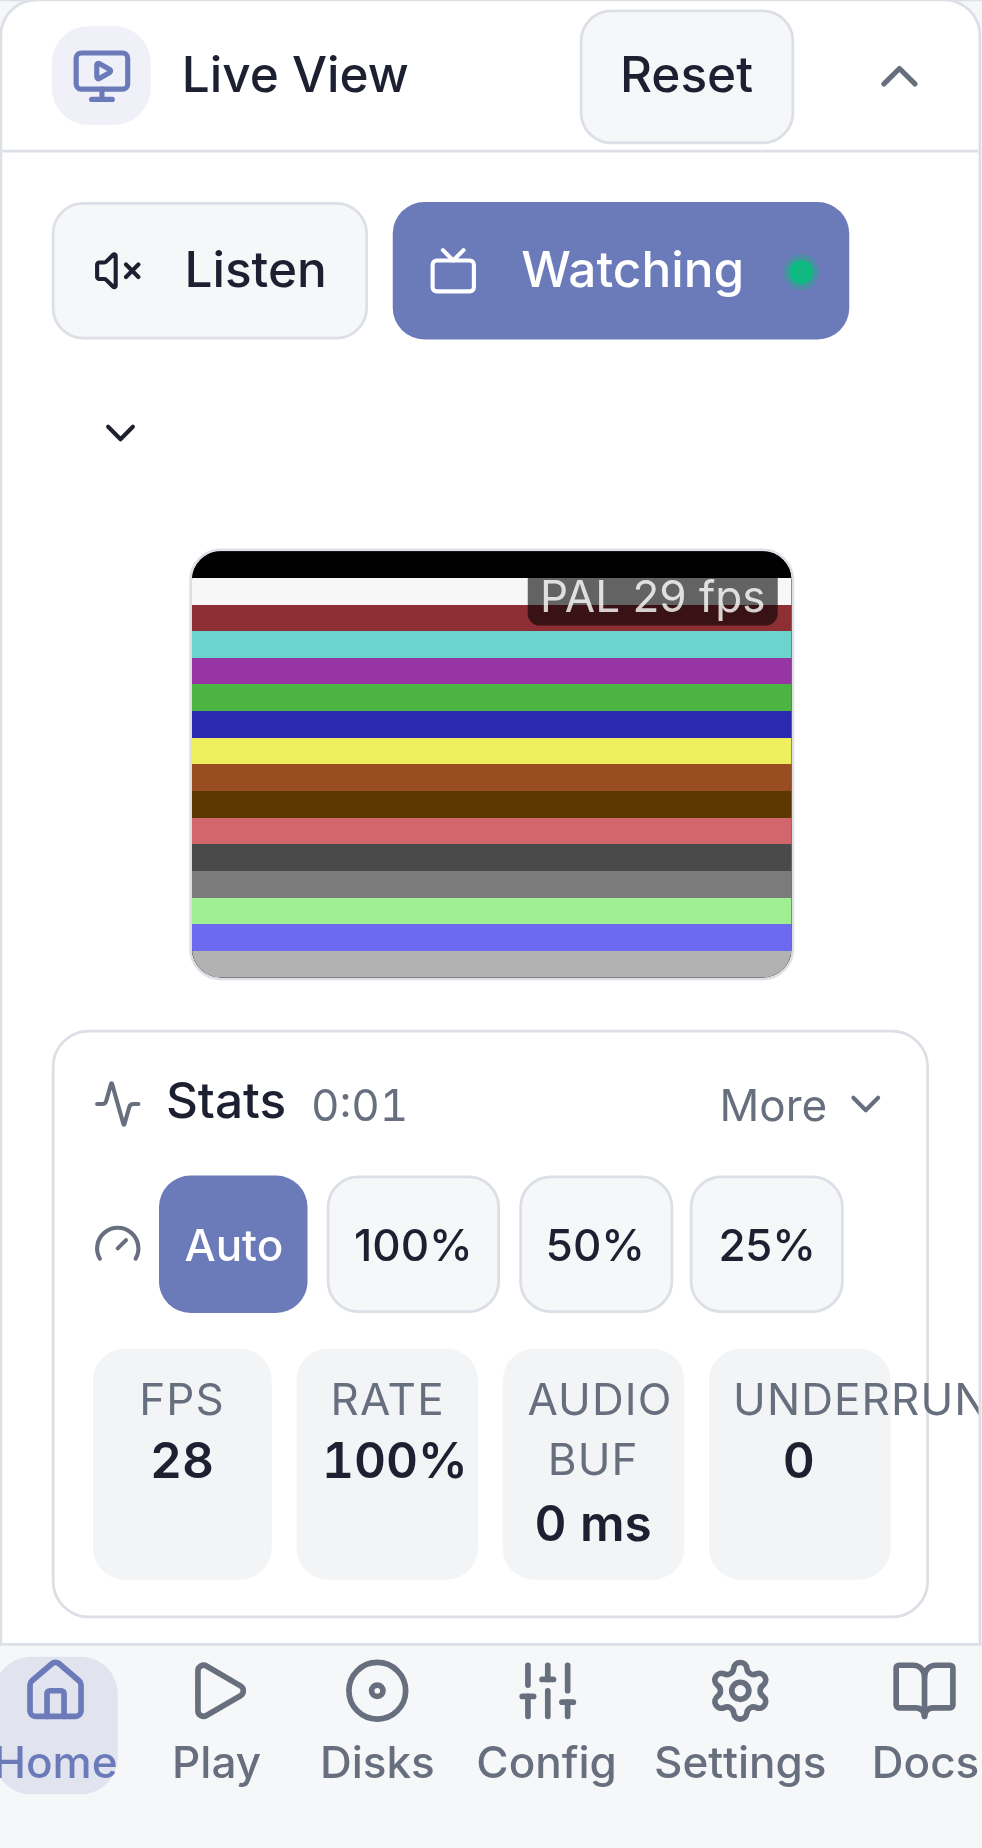
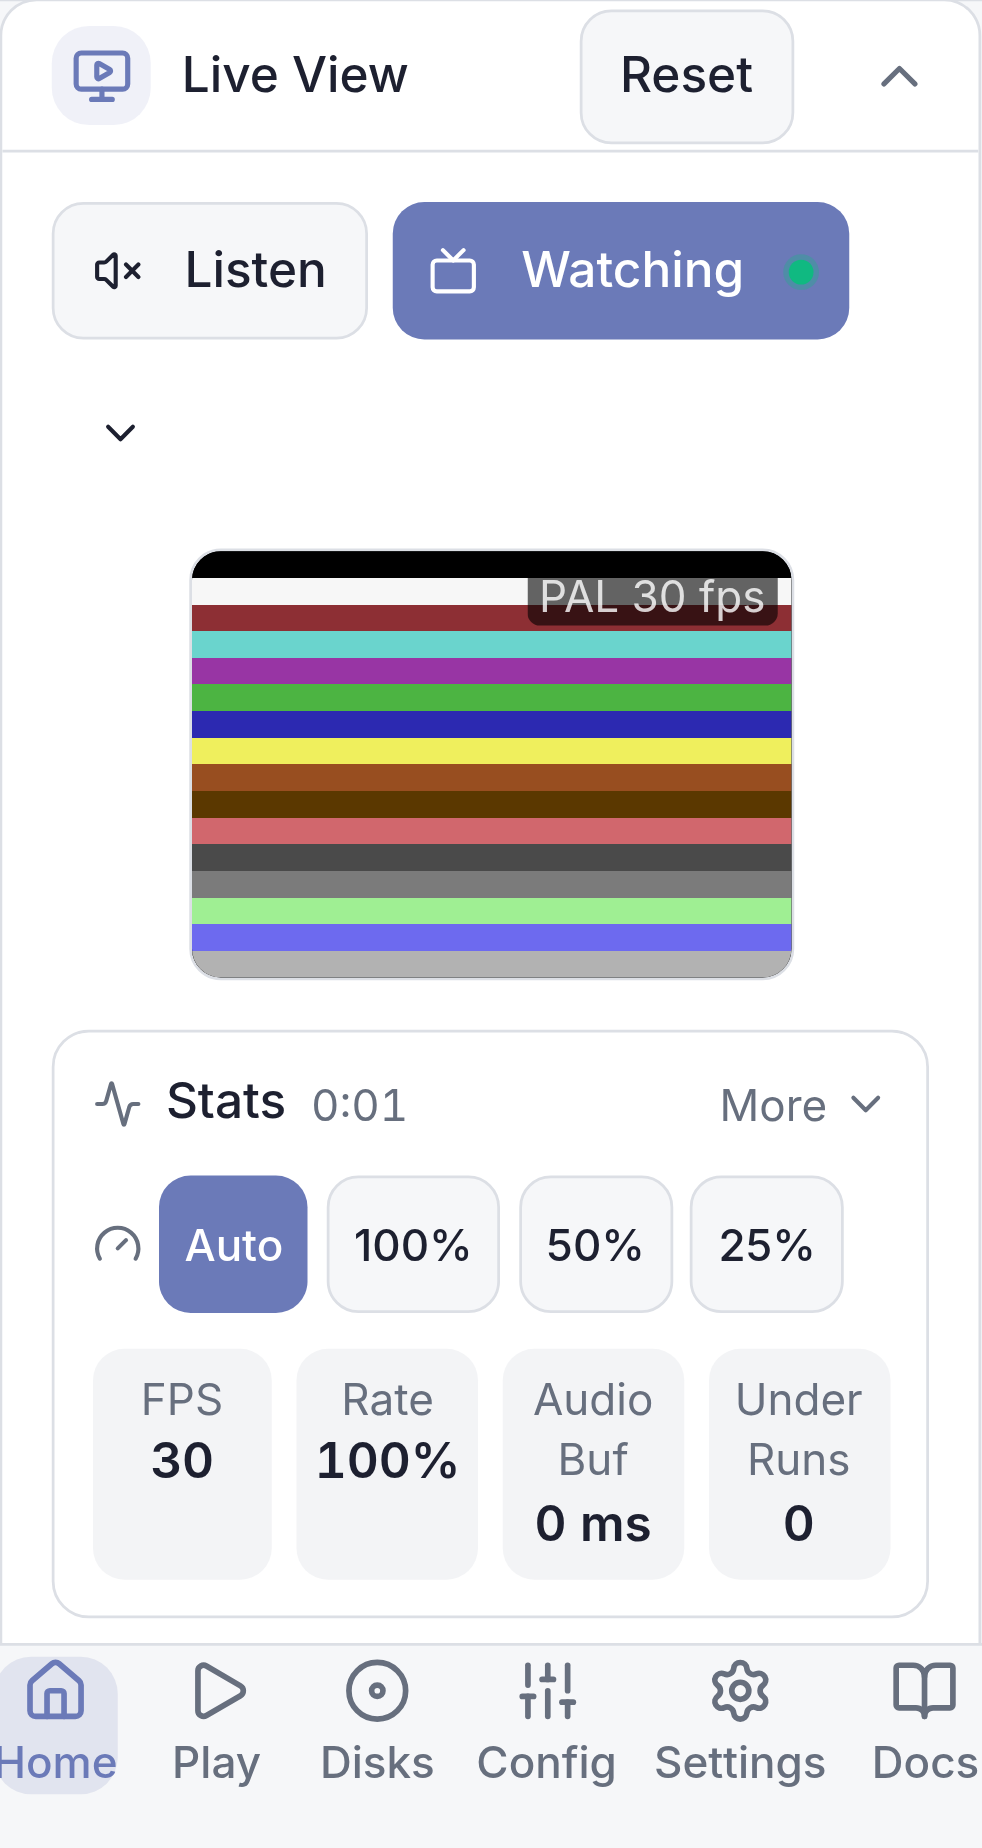
fix(streams): stop Live View stats labels and values clipping at the medium profile
The Stats panel is the one surface in the app that gets tighter as the screen
gets wider. The compact profile gives it two columns, the medium profile four,
so at 393px each summary tile leaves its label a 48px content box.

Measured in the browser at that width, "UNDERRUNS" needed 104px and spilled out
of the right-hand edge of the card, which is what the README screenshot showed.
Uppercase with `tracking-wide` is most of the cost, but not all of it: "Underruns"
in title case still needs 80px. "AUDIO BUF" needed 53px in the same 48px box.

The labels are now title case, and the two long ones are split into two short
words that wrap: "Audio Buf" and "Under Runs" each measure 48px over two lines.
"UNDER RUN" in uppercase would not have worked, because "UNDER" alone measures
57px.

Auditing the whole panel found three further clipped elements at that width, all
of the same kind:

- The value "100%" under Rate needed 53px against the same 48px box. Tile
  padding drops from `px-2` to `px-1`, which gives every tile 8px more.
- "Presented", "Decimated" and "Concealed" needed 81px against the 73px box that
  a three-column grid leaves. The Video and Audio sections now use two columns at
  every profile. Shortening those words would have desynced the tiles from the
  sparkline captions above them, which name the same quantities in full.
- The sparkline caption "LOSS (PKTS+FRAMES/S)" needed 151px against a 138px
[…]

diff --git a/src/components/streams/StreamStatsPanel.tsx b/src/components/streams/StreamStatsPanel.tsx
@@ -69,10 +69,15 @@ function Sparkline({ values, testid, ariaLabel }: { values: number[]; testid: st
   );
 }
 
+/**
+ * Title case, not uppercase: the medium profile's four-column grid leaves a 48px label box, where
+ * "UNDERRUNS" measured 104px and spilled out of the card. Dropping `uppercase tracking-wide` alone
+ * leaves "Underruns" at 80px, so long labels are split: "Audio Buf" and "Under Runs" each fit 48px.
+ */
 function Stat({ label, value, testid, tone }: { label: string; value: string; testid: string; tone?: "warn" }) {
   return (
-    <div className="rounded-md bg-muted/50 px-2 py-1.5 text-center">
-      <div className="text-xs uppercase tracking-wide text-muted-foreground">{label}</div>
+    <div className="rounded-md bg-muted/50 px-1 py-1.5 text-center">
+      <div className="text-xs text-muted-foreground">{label}</div>
       <div
         className={cn("text-sm font-semibold tabular-nums", tone === "warn" && "text-destructive")}
         data-testid={`stream-stats-${testid}`}
@@ -106,9 +111,9 @@ export function StreamStatsPanel({ session, className, onExport }: StreamStatsPa
   const { profile } = useDisplayProfile();
   // On a 320px screen the panel has about 250px of content width. Four columns give
   // each stat 55px, which is not enough for a single word: "Underruns" needs 99px and
-  // was cut off at the right-hand edge of the card, and "100%" under Rate needs 56px
-  // and had nowhere to break. Halving the column count on the smallest screen gives
-  // every label and value room to be read whole.
+  // "100%" under Rate needs 56px with nowhere to break. Halving the column count on the
+  // smallest screen gives every label and value room to be read whole. Four columns still
+  // apply at 393px, where the label box is only 48px — see the Stat label note above.
   const compact = profile === "compact";
   const statColumns = (wide: string, narrow: string) => (compact ? narrow : wide);
 
@@ -196,13 +201,13 @@ export function StreamStatsPanel({ session, className, onExport }: StreamStatsPa
         <Stat label="FPS" value={num(live.fps)} testid="fps" />
         <Stat label="Rate" value={pct(governor.effectivePercent)} testid="rate" />
         <Stat
-          label="Audio buf"
+          label="Audio Buf"
           value={ms(live.audioBufferMs)}
           testid="audio-buffer"
           tone={live.audioBufferMs > 0 && live.audioBufferMs < 30 ? "warn" : undefined}
         />
         <Stat
-          label="Underruns"
+          label="Under Runs"
           value={num(live.audioUnderruns)}
           testid="underruns"
           tone={live.audioUnderruns > 0 ? "warn" : undefined}
@@ -216,7 +221,7 @@ export function StreamStatsPanel({ session, className, onExport }: StreamStatsPa
               and squeezing them cut "Session" off inside its button and set "History"
               as "His" / "tory". */}
           <div className="flex flex-wrap items-center gap-1.5" data-testid="stream-stats-window">
-            <span className="shrink-0 text-xs uppercase tracking-wide text-muted-foreground">History</span>
+            <span className="shrink-0 text-xs text-muted-foreground">History</span>
             {WINDOWS.map((w) => (
               <Button
                 key={w.label}
@@ -235,11 +240,11 @@ export function StreamStatsPanel({ session, className, onExport }: StreamStatsPa
           {/* History charts (§12.3) */}
           <div className={cn("grid gap-3", statColumns("grid-cols-2", "grid-cols-1"))}>
             <div className="text-muted-foreground">
-              <div className="mb-1 text-xs uppercase tracking-wide">Presented FPS</div>
+              <div className="mb-1 text-xs">Presented FPS</div>
               <Sparkline values={fpsSeries} testid="stream-stats-spark-fps" ariaLabel="Presented FPS over the window" />
             </div>
             <div className="text-muted-foreground">
-              <div className="mb-1 text-xs uppercase tracking-wide">Audio buffer min (ms)</div>
+              <div className="mb-1 text-xs">Audio buffer min (ms)</div>
               <Sparkline
                 values={bufferSeries}
                 testid="stream-stats-spark-buffer"
@@ -247,7 +252,7 @@ export function StreamStatsPanel({ session, className, onExport }: StreamStatsPa
               />
             </div>
             <div className="text-muted-foreground">
-              <div className="mb-1 text-xs uppercase tracking-wide">Loss (pkts+frames/s)</div>
+              <div className="mb-1 text-xs">Loss (pkts+frames/s)</div>
               <Sparkline
                 values={lossSeries}
                 testid="stream-stats-spark-loss"
@@ -255,7 +260,7 @@ export function StreamStatsPanel({ session, className, onExport }: StreamStatsPa
               />
             </div>
             <div className="text-muted-foreground">
-              <div className="mb-1 text-xs uppercase tracking-wide">Concealed audio/s</div>
+              <div className="mb-1 text-xs">Concealed audio/s</div>
               <Sparkline
                 values={concealSeries}
                 testid="stream-stats-spark-conceal"
@@ -263,7 +268,7 @@ export function StreamStatsPanel({ session, className, onExport }: StreamStatsPa
               />
             </div>
             <div className={cn("text-muted-foreground", compact ? "col-span-1" : "col-span-2")}>
-              <div className="mb-1 text-xs uppercase tracking-wide">Effective video rate (%)</div>
+              <div className="mb-1 text-xs">Effective video rate (%)</div>
               <Sparkline
                 values={rateSeries}
                 testid="stream-stats-spark-rate"
@@ -286,7 +291,11 @@ export function StreamStatsPanel({ session, className, onExport }: StreamStatsPa
           {/* Video presentation-slot accounting (§9.1) */}
           <section data-testid="stream-stats-video">
             <div className="mb-1 text-xs font-medium">Video ({live.standard})</div>
-            <div className={cn("grid gap-2", statColumns("grid-cols-3", "grid-cols-2"))}>
+            {/* Two columns at every profile: a third column leaves a 73px label box at the medium
+                profile, and "Presented", "Decimated" and "Concealed" need 81px there. Shortening
+                them would desync these tiles from the sparkline captions above, which name the
+                same quantities in full. */}
+            <div className="grid grid-cols-2 gap-2">
               <Stat label="Presented" value={num(live.presented)} testid="presented" />
               <Stat label="Partial" value={num(live.partialConcealed)} testid="partial" />
               <Stat label="Repeated" value={num(live.repeatedFrames)} testid="repeated" />
@@ -300,7 +309,7 @@ export function StreamStatsPanel({ session, className, onExport }: StreamStatsPa
           {/* Audio */}
           <section data-testid="stream-stats-audio">
             <div className="mb-1 text-xs font-medium">Audio</div>
-            <div className={cn("grid gap-2", statColumns("grid-cols-3", "grid-cols-2"))}>
+            <div className="grid grid-cols-2 gap-2">
               <Stat label="Concealed" value={num(live.audioConcealed)} testid="concealed" />
               <Stat label="Dropped pkts" value={num(live.audioLostPackets)} testid="dropped-packets" />
               <Stat label="Buf min" value={ms(summary.audioBufferMsMin)} testid="audio-buffer-min" />

diff --git a/playwright/smallScreenLayoutIntegrity.spec.ts b/playwright/smallScreenLayoutIntegrity.spec.ts
@@ -11,6 +11,7 @@ import { createMockC64Server } from "../tests/mocks/mockC64Server";
 import { seedUiMocks } from "./uiMocks";
 import { disableTraceAssertions } from "./traceUtils";
 import { DISPLAY_PROFILE_VIEWPORTS } from "./displayProfileViewports";
+import { applyDisplayProfileViewport } from "./displayProfileViewportUtils";
 import { TAB_ROUTES } from "../src/lib/navigation/tabRoutes";
 import { auditSmallScreenLayout, formatDefects, type LayoutDefect } from "./smallScreenLayoutAudit";
 
@@ -421,5 +422,16 @@ test.describe("Small screen layout integrity", () => {
     await liveView.getByTestId("stream-stats-toggle").click();
     await page.waitForTimeout(500);
     await auditAndAssert(page, "Live View stats (detailed view)");
+
+    // The stats grid is the one surface in the app that gets *tighter* as the screen gets
+    // wider: the compact profile gives it two columns, the medium profile four. At 393px
+    // that leaves each label a 48px box, where "UNDERRUNS" needed 104px and spilled out of
+    // the card. Every other test in this file is pinned to 320px, so nothing measured the
+    // width where the panel is actually at its narrowest per column.
+    for (const profileId of ["medium", "expanded"] as const) {
+      await applyDisplayProfileViewport(page, profileId);
+      await page.waitForTimeout(500);
+      await auditAndAssert(page, `Live View stats (detailed view, ${profileId} profile)`);
+    }
   });
 });
